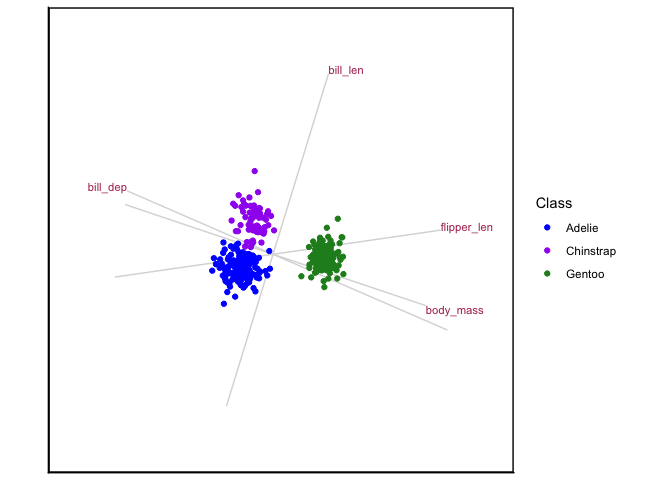
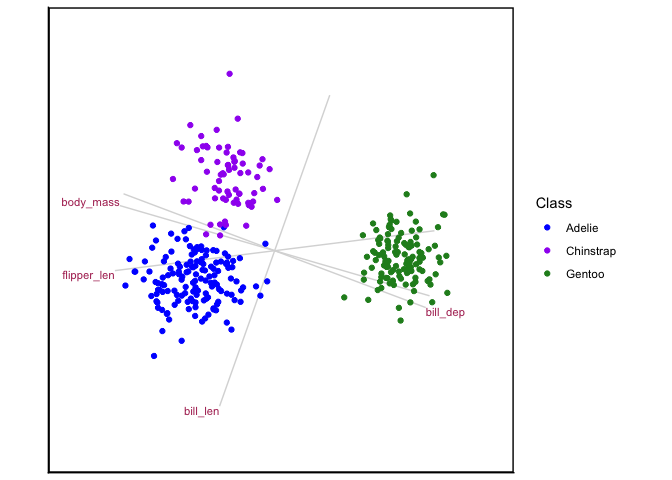
updated read me

diff --git a/README.md b/README.md
@@ -32,7 +32,7 @@ CVAgsvd(X=Penguins[,3:6],group = Penguins[,1]) |>
   CVAbiplot(group.col=c("blue","purple","forestgreen"))
 ```
 
-<img src="man/figures/README-example1-1.png" width="100%" />
+<img src="man/figures/README-example1-1.png" alt="" width="100%" />
 
 When $p > n$, then the standard CVA biplot will not work due to the
 singularity of the within-scatter matrix, and this is when the GSVD
@@ -42,10 +42,10 @@ observations and 300 variables, a CVA-GSVD biplot can be constructed:
 ``` r
 data(sim_data)
 CVAgsvd(X=sim_data[,2:301],group = sim_data[,1]) |>
-  CVAbiplot(group.col=c("tan1","darkcyan","darkslateblue"),which.var = 1:10,zoom.out=80)
+  CVAbiplot(group.col=c("tan1","darkcyan","darkslateblue"),which.var = 1:10)
 ```
 
-<img src="man/figures/README-example2-1.png" width="100%" />
+<img src="man/figures/README-example2-1.png" alt="" width="100%" />
 
 ## About the name 🦏
 
